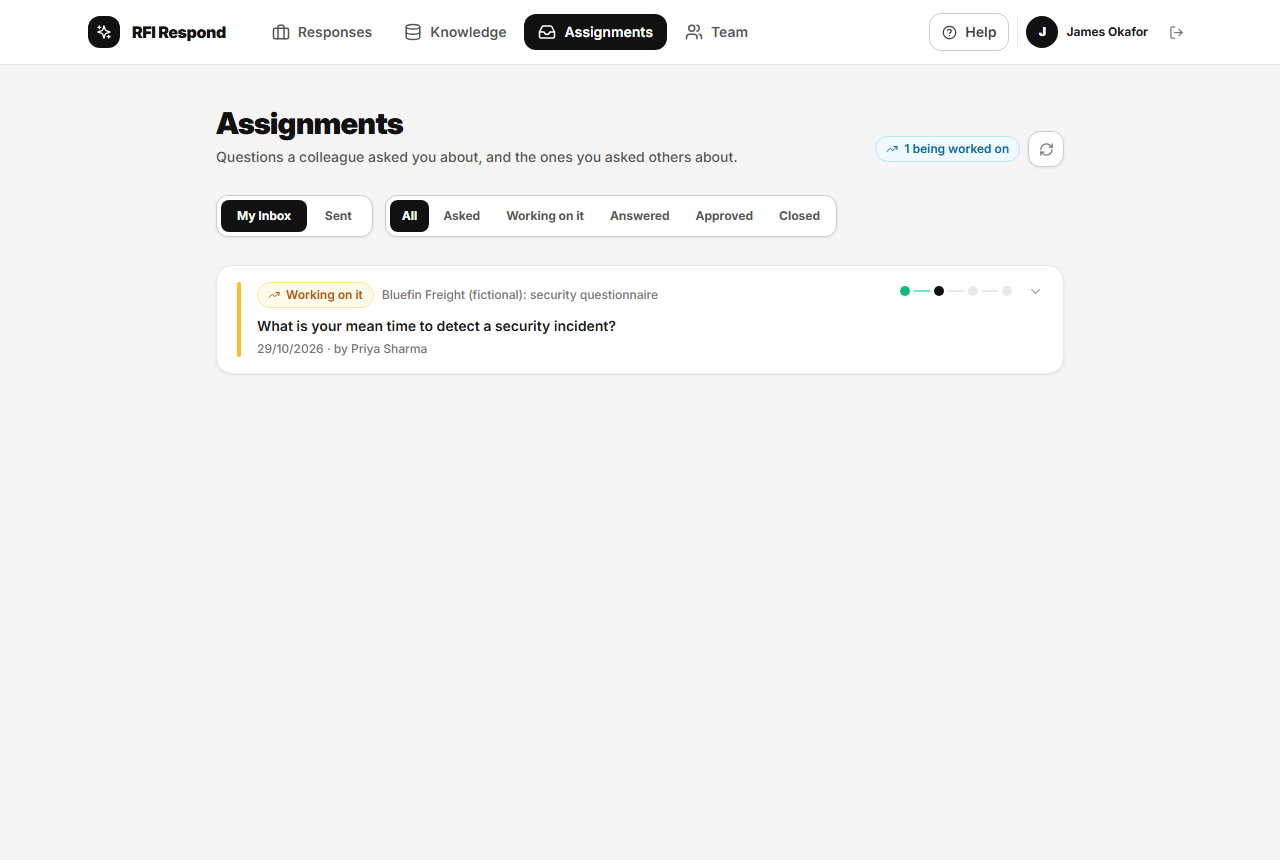
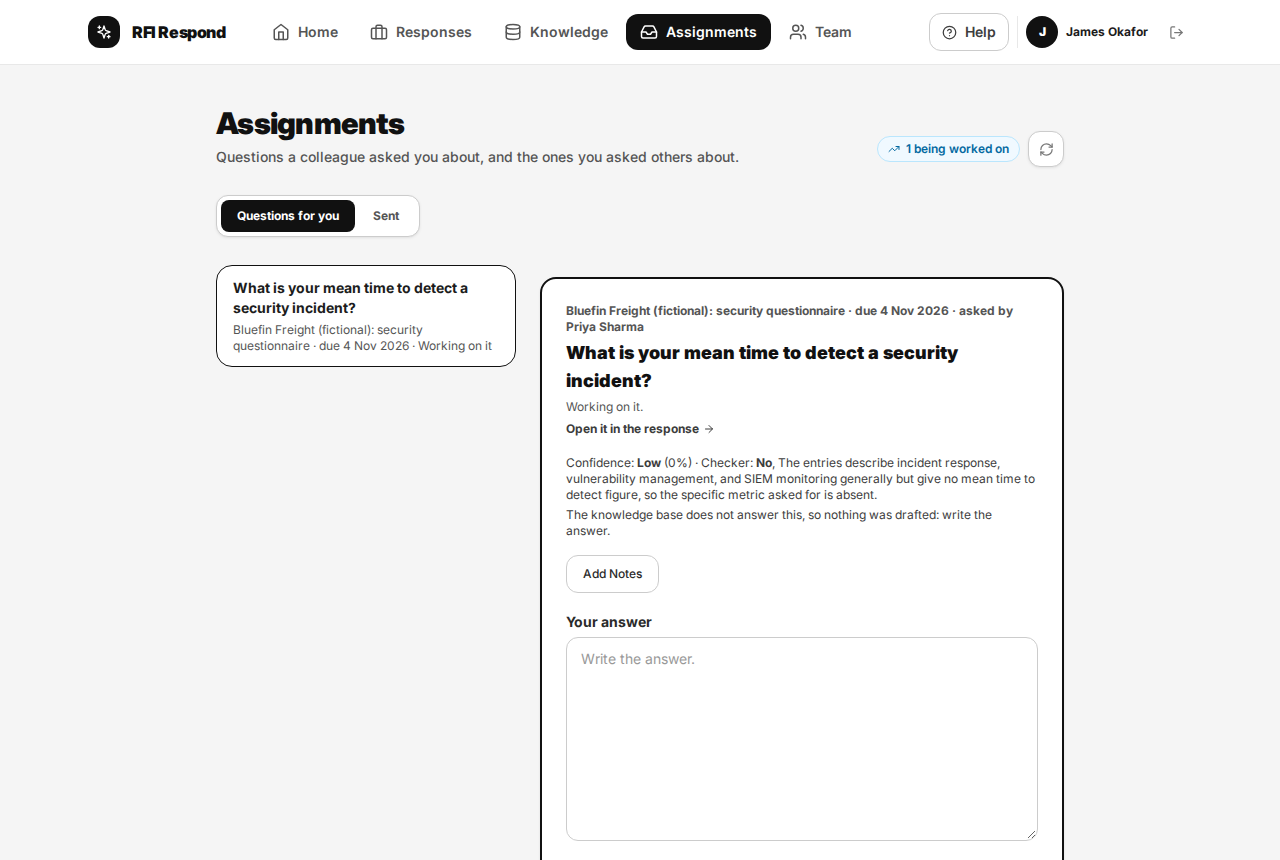
S19-4: Home and questions-for-you screenshots, from CI
Taken by the e2e job's screenshot run on the fresh seed (CI run 41467755737; Sprint 20, Q4), so Rory no longer retakes them. Home is in the introduction's first step, the getting-started guide and the README; the README's pricing row now pairs with assigning a question, since questions for you moved up beside Home. The ask picture stays the one from Rory's Sprint 18 run with the real models.

Claude-Session: https://claude.ai/code/session_01WPpy6XYfi9BKBXrsw4t5HH

diff --git a/src/lib/onboarding.ts b/src/lib/onboarding.ts
@@ -37,9 +37,8 @@ export const INTRO_STEPS: IntroStep[] = [
       '**Home** shows what needs you today: questions colleagues have assigned to you, answers they have sent you, and your responses at risk or overdue. Each opens the place to act on it.',
       '**Responses** lists every response in progress. Choose **New response** to start one; anyone can start a response and owns the ones they start.',
     ],
-    // The screenshot (21-home.png) is added once Rory has retaken the screenshots (Sprint 19, Q6).
-    image: null,
-    imageAlt: '',
+    image: '21-home.png',
+    imageAlt: 'Home: the questions waiting for you, your responses, and what the organisation knows',
     guide: { page: 'getting-started.md', anchor: 'the-overview', label: 'Getting started' },
   },
   {

diff --git a/README.md b/README.md
@@ -30,14 +30,16 @@ Product owner: Rory McClelland. Code written by Claude, as an AI coding agent, w
 
 | | |
 |---|---|
+| ![Home: what needs you today](docs/screenshots/21-home.png) | ![A specialist's questions for you](docs/screenshots/5-assignments.png) |
+| Home: what needs you today, your responses, and what the organisation knows | A specialist answers an assigned question on one screen |
 | ![The knowledge page: what the organisation knows](docs/screenshots/17-knowledge.png) | ![All answers, with one chosen](docs/screenshots/18-knowledge-browse.png) |
 | The knowledge base: what the organisation knows, by topic and state | Every answer, searchable, with where it came from |
 | ![Asking the knowledge base a question](docs/screenshots/20-ask.png) | ![One answer, with a proposed change waiting and where it has been used](docs/screenshots/19-answer-page.png) |
 | Ask it a question: the draft it would give, its confidence and sources | One answer's history and where it has been used |
 | ![Overview of responses in flight](docs/screenshots/1-overview.png) | ![Review, lowest confidence first, with the bulk approval bar](docs/screenshots/2-review.png) |
 | Responses in flight, with owner, due date and progress | Review, lowest confidence first; bulk approval above a threshold |
-| ![A pricing question held for a person](docs/screenshots/4-pricing-held.png) | ![A specialist's questions for you](docs/screenshots/5-assignments.png) |
-| A pricing question, never drafted or bulk-approved | A specialist answers an assigned question on one screen |
+| ![A pricing question held for a person](docs/screenshots/4-pricing-held.png) | ![Assigning a question to a colleague, with suggested people](docs/screenshots/11-assign.png) |
+| A pricing question, never drafted or bulk-approved | Assigning a question, with the people best placed to answer it |
 | ![An exported response and what the knowledge base learned](docs/screenshots/6-export-and-learning.png) | ![The governance page: usage and limits](docs/screenshots/7-governance-usage.png) |
 | An exported response, and what the knowledge base learned | Spend, limits and prices on the governance page |
 

diff --git a/docs/guide/getting-started.md b/docs/guide/getting-started.md
@@ -23,6 +23,8 @@ The bar at the top of every screen has:
 - **Help**: this guide, and the introduction.
 - Your name, and **Sign out** (the arrow icon).
 
+![Home: what needs you, your responses, and what the organisation knows](../screenshots/21-home.png)
+
 On a narrow window some of these show as icons only; hover over an icon to see its name. On a phone-sized screen they are in the menu (the three lines at the top right).
 
 ![The guide, opened from Help](../screenshots/15-help.png)
